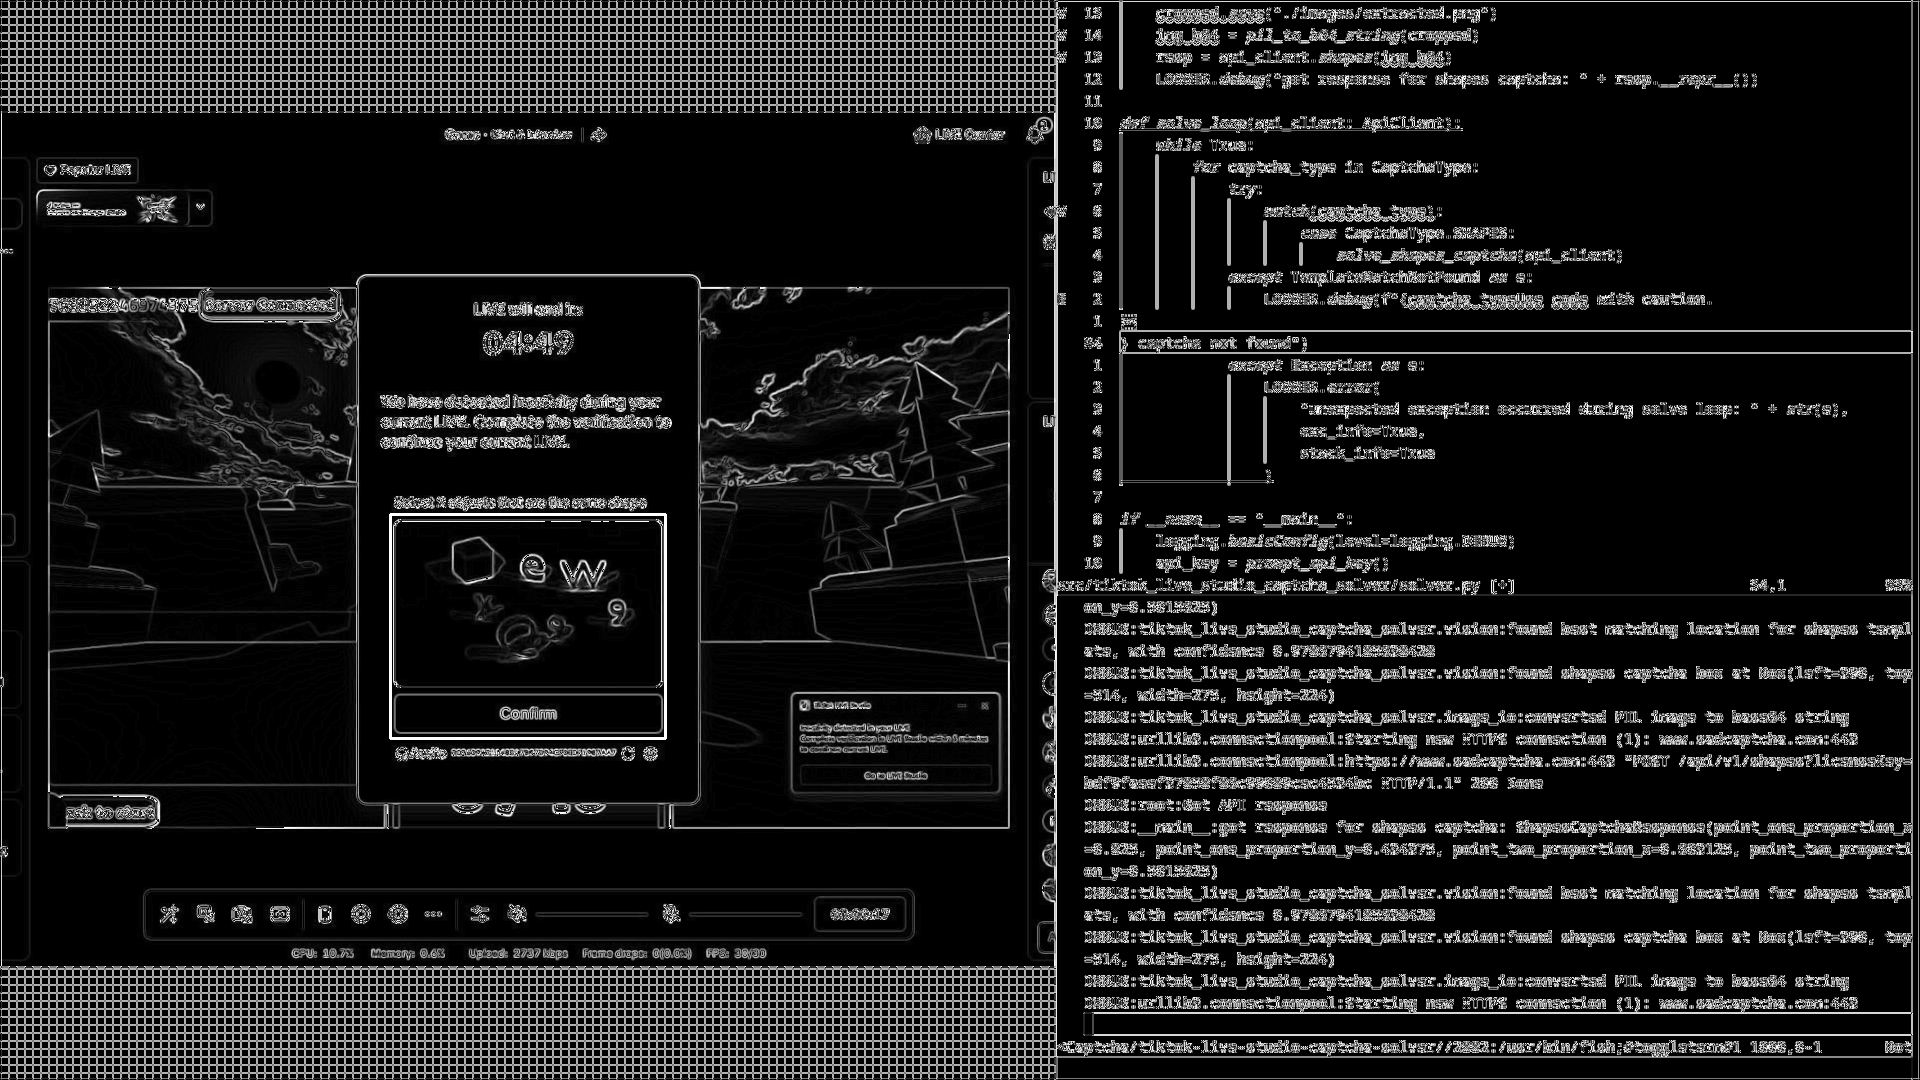
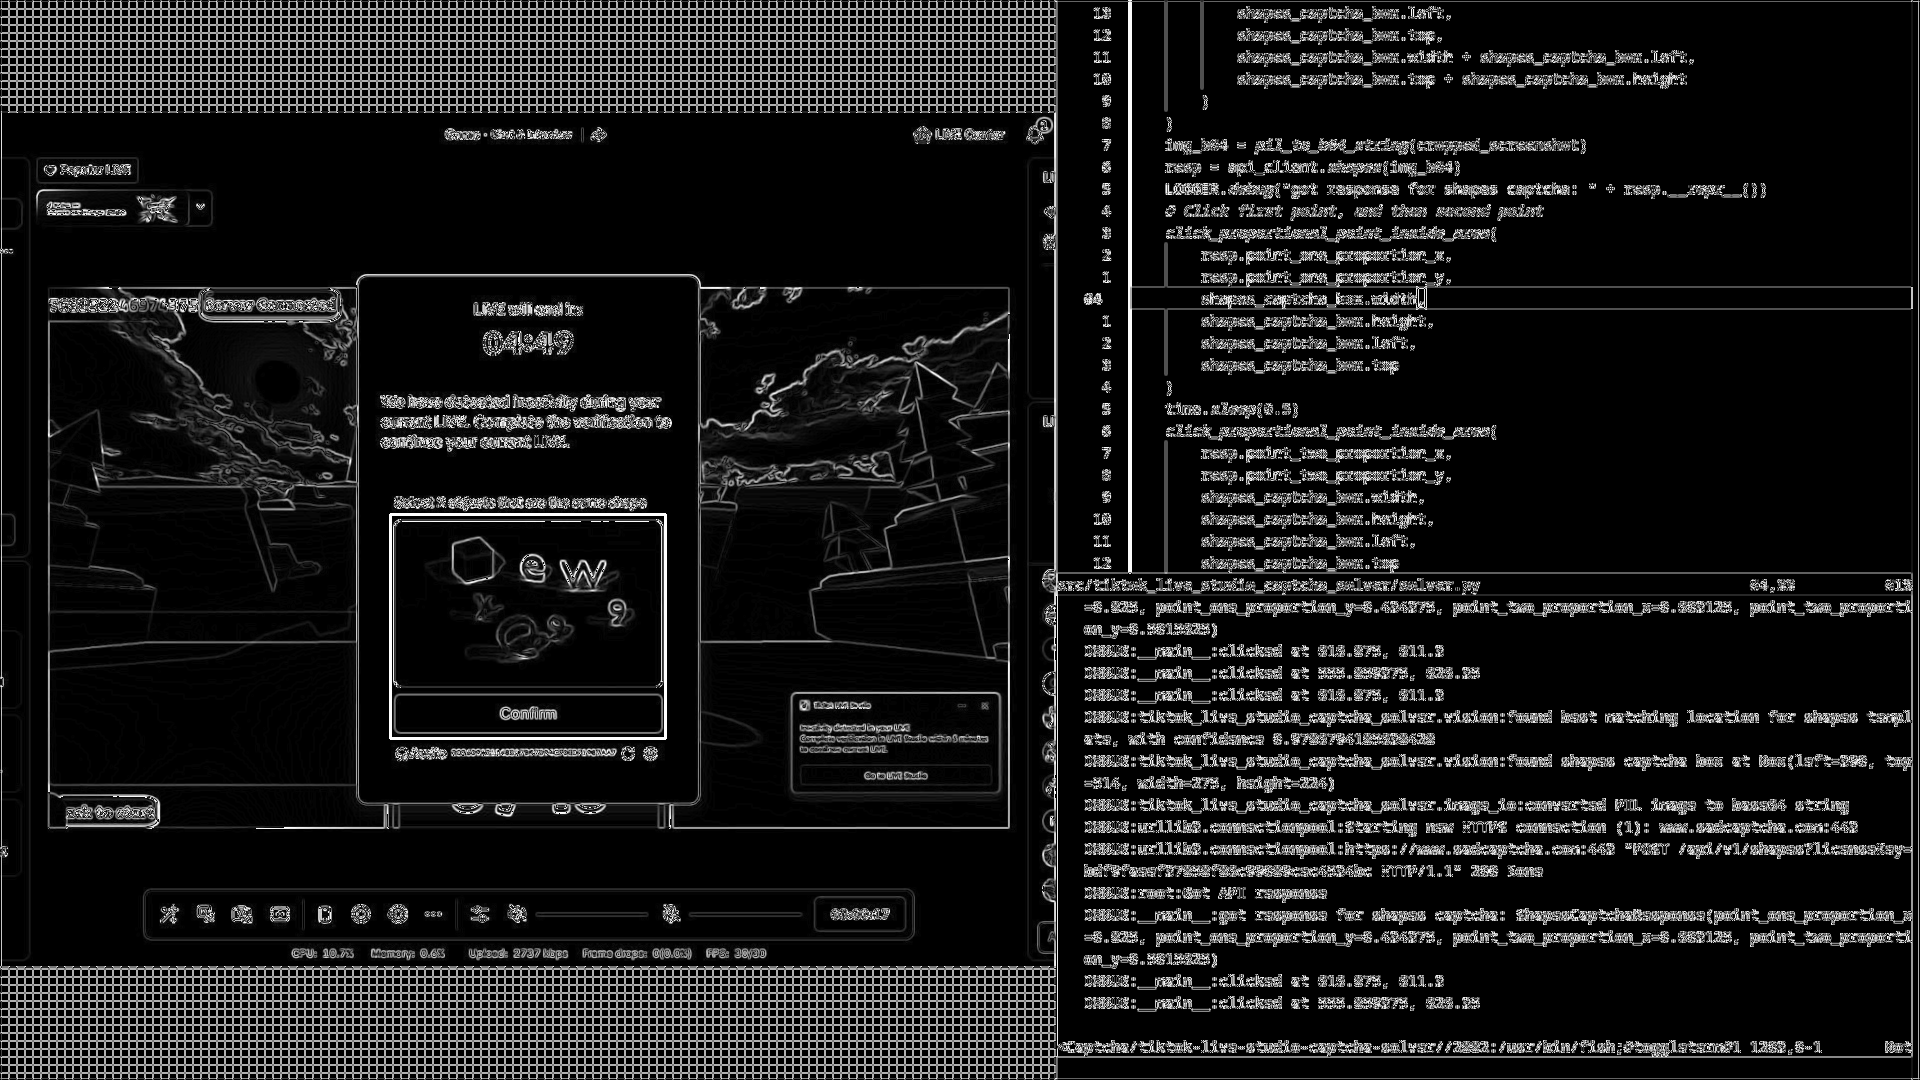
clicks buttons

Changed region(s): [[0.5312, 0.0, 1.0, 0.9778], [0.9375, 0.3667, 0.9688, 0.3972]]

diff --git a/src/tiktok_live_studio_captcha_solver/solver.py b/src/tiktok_live_studio_captcha_solver/solver.py
@@ -1,5 +1,7 @@
-from tiktok_live_studio_captcha_solver.exceptions import TemplateMatchNotFound
-from tiktok_live_studio_captcha_solver.image_io import pil_to_b64_string
+import time
+
+from .exceptions import TemplateMatchNotFound
+from .image_io import pil_to_b64_string
 from .system import tkinter_is_installed
 
 if __name__ == "__main__":
@@ -25,10 +27,26 @@ def prompt_api_key() -> str:
         api_key = input("Please enter your SadCaptcha API key (You can also set the SADCAPTCHA_API_KEY environment variable): ")
     return api_key
 
+def click_proportional_point_inside_area(
+    proportion_x: float,
+    proportion_y: float,
+    area_width: int,
+    area_height: int,
+    offset_x: int,
+    offset_y: int
+) -> None:
+    """Click a proportional point within a given area on the screen. The X value where the
+    click occurs is calculated as: (area_width*proportion_x)+offset_x
+    The Y value where the click occurs is calculated as: (area_height*proportion_y)+offset_y """
+    x_loc = (area_width * proportion_x) + offset_x
+    y_loc = (area_height * proportion_y) + offset_y
+    pyautogui.click(x_loc, y_loc)
+    LOGGER.debug(f"clicked at {x_loc}, {y_loc}")
+
 def solve_shapes_captcha(api_client: ApiClient) -> None:
     screenshot = pyautogui.screenshot()
     shapes_captcha_box = find_shapes_captcha_box(screenshot)
-    cropped = screenshot.crop(
+    cropped_screenshot = screenshot.crop(
         (
             shapes_captcha_box.left,
             shapes_captcha_box.top,
@@ -36,10 +54,36 @@ def solve_shapes_captcha(api_client: ApiClient) -> None:
             shapes_captcha_box.top + shapes_captcha_box.height
         )
     )
-    cropped.save("./images/extracted.png")
-    img_b64 = pil_to_b64_string(cropped)
+    img_b64 = pil_to_b64_string(cropped_screenshot)
     resp = api_client.shapes(img_b64)
     LOGGER.debug("got response for shapes captcha: " + resp.__repr__())
+    # Click first point, and then second point
+    click_proportional_point_inside_area(
+        resp.point_one_proportion_x,
+        resp.point_one_proportion_y,
+        shapes_captcha_box.width,
+        shapes_captcha_box.height,
+        shapes_captcha_box.left,
+        shapes_captcha_box.top
+    )
+    LOGGER.debug("clicked first shape")
+    time.sleep(0.5)
+    click_proportional_point_inside_area(
+        resp.point_two_proportion_x,
+        resp.point_two_proportion_y,
+        shapes_captcha_box.width,
+        shapes_captcha_box.height,
+        shapes_captcha_box.left,
+        shapes_captcha_box.top
+    )
+    LOGGER.debug("clicked second shape")
+    # Click confirm button
+    pyautogui.click(
+        shapes_captcha_box.width / 2,
+        shapes_captcha_box.height - 15
+    )
+    LOGGER.debug("clicked confirm button")
+    time.sleep(5)
 
 def solve_loop(api_client: ApiClient):
     while True:

diff --git a/src/tiktok_live_studio_captcha_solver/vision.py b/src/tiktok_live_studio_captcha_solver/vision.py
@@ -94,8 +94,7 @@ def find_shapes_captcha_box(
     top_left = max_loc
     bottom_right = (top_left[0] + w, top_left[1] + h)
     _ = cv2.rectangle(mat ,top_left, bottom_right, 255, 2)
-    cv2.imwrite("./images/test_shapes_captcha_match.png", mat)
-    cv2.imwrite("./images/test_shapes_template.png", SHAPES_TEMPLATE)
     box = Box(left=top_left[0], top=top_left[1], width=w, height=h )
     LOGGER.debug("found shapes captcha box at " + box.__repr__())
     return box
+
